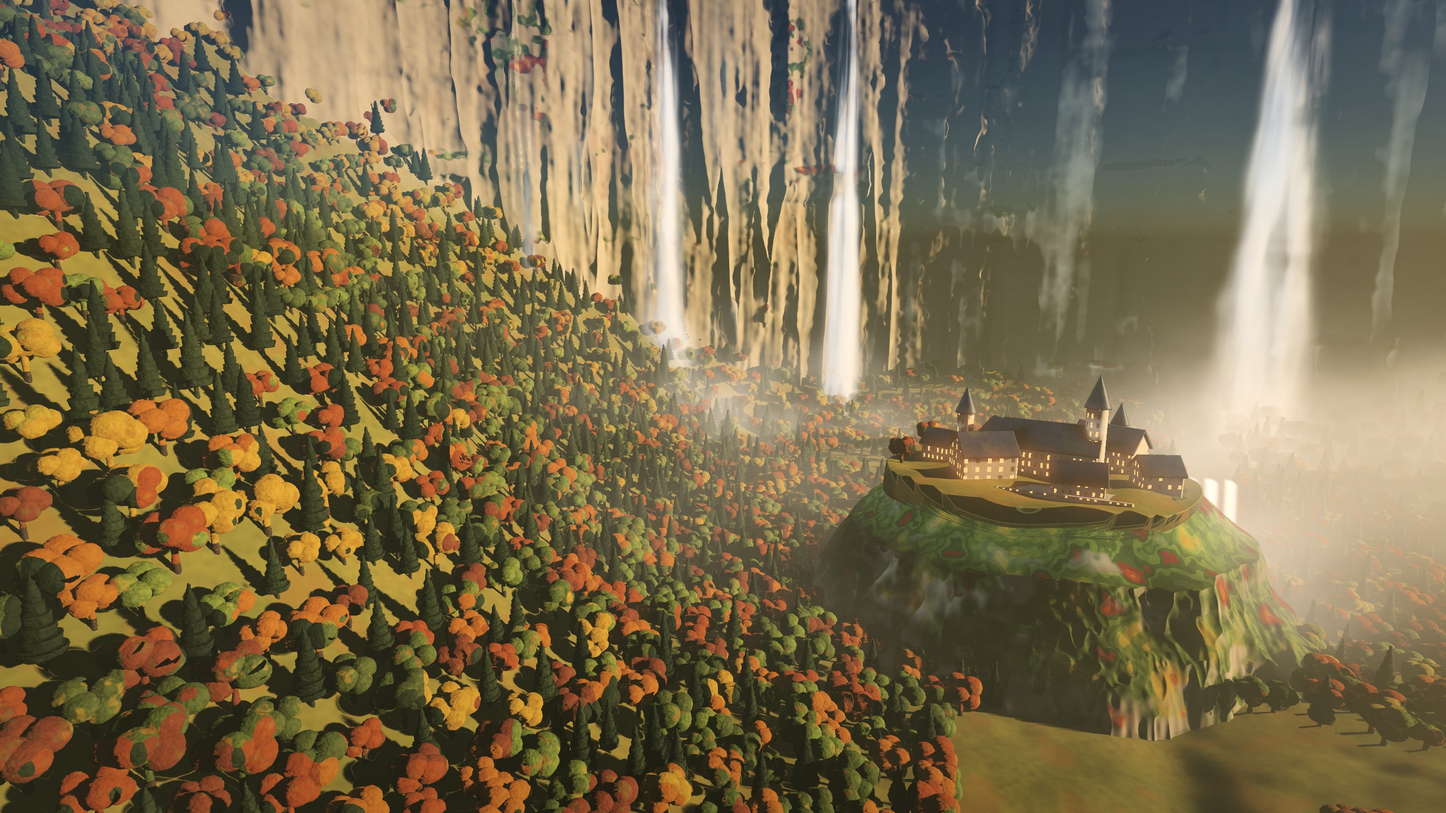
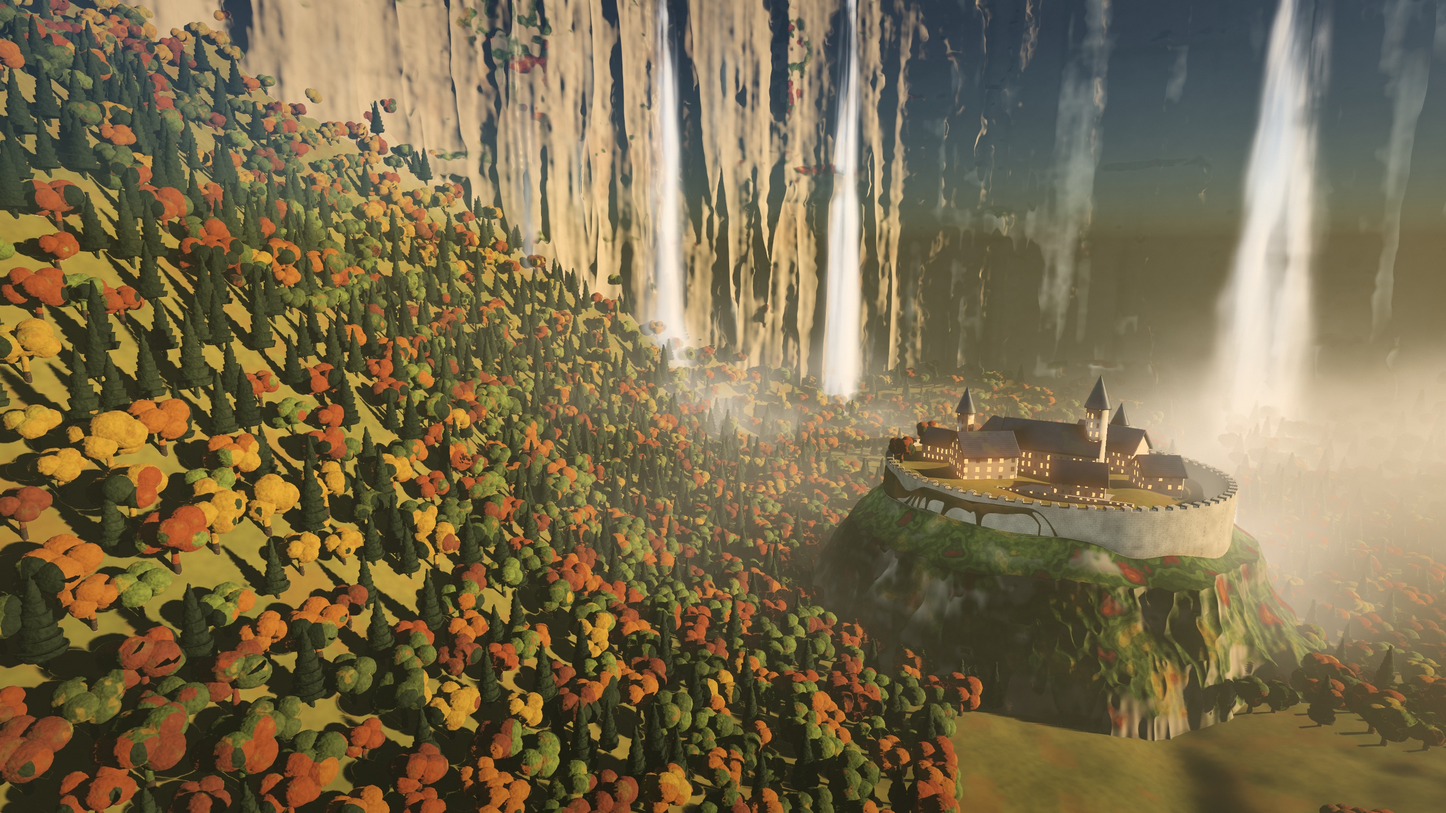
Légendes background: a crenellated stone rampart around the village's plateau (courses of blocks, mortar, moss at its foot, open in front of the terrace) instead of the grass border; no grass tongues over the lip (they made teeth); the crag's bushes finely mottled instead of smooth-edged patches

Changed region(s): [[0.5938, 0.5625, 0.875, 0.6875]]

diff --git a/app/tools/sprites/legend_scene.py b/app/tools/sprites/legend_scene.py
@@ -94,14 +94,13 @@ def cliff_mat():
                            sstep(0.6, 0.68, fbm(torch.stack([x * 0.012, y * 0.006, z * 0.012], 1) + 5, 4)) * sstep(0.45, 0.6, fbm(pw * 0.15, 2)))
         veg = autumn(fbm(pw * 0.09 + 7, 3) * 2.0, fbm(pw * 0.004, 2)) * (0.55 + 0.6 * fbm(pw * 0.5, 3))[:, None]
         up = torch.maximum(up, sstep(0.55, 0.75, n[:, 1]))          # whatever is flat enough is overgrown
-        # the crag's lip: no pale band under its top, the grass and the bushes spill over the edge
-        # and hang down in tongues, the rock just below is darker (shade, damp)
+        # the crag: darker just below the plateau (shade, damp)
         rs = torch.sqrt((x - SPUR[0]) ** 2 + ((z - SPUR[1]) * 1.2) ** 2) / SPUR[2]
         on_spur = sstep(1.3, 1.1, rs)
         below = SPUR[3] - y
-        hang = sstep(14 + 10 * fbm(torch.stack([x * 0.08, x * 0, z * 0.08], 1), 3), 2, below) * on_spur
-        up = torch.maximum(up, hang * sstep(0.35, 0.5, fbm(torch.stack([x * 0.15, y * 0.03, z * 0.15], 1) + 3, 3) + 0.25 * hang))
         a = a * (1 - 0.35 * (sstep(30, 8, below) * on_spur))[:, None]
+        # the bushes: fine mottling of light and shade, not patches with smooth outlines
+        veg = veg * (0.5 + 0.7 * fbm(pw * 0.9 + 1, 3))[:, None] * (0.8 + 0.35 * fbm(pw * 3.0, 2))[:, None]
         a = torch.lerp(a, veg, up[:, None])
         # the wet rock behind and around each waterfall
         wet = torch.zeros_like(x)
@@ -436,6 +435,37 @@ def wall_mat():
     return Mat("#e4dccc", rough=0.75, pattern=pat)
 
 
+def rampart(p):
+    """A stone rampart around the plateau's edge, with merlons: the village's edge is a wall, not a
+    band of grass. Grounded down into the crag."""
+    x, y, z = p[:, 0] - SPUR[0], p[:, 1], p[:, 2] - SPUR[1]
+    re = torch.sqrt(x * x + (z * 1.2) ** 2) / SPUR[2]
+    band = (re - 0.762).abs() * SPUR[2] - 1.5                       # 3 m thick
+    top = BASES[(0, 0)] + 3.2
+    ang = torch.atan2(z * 1.2, x)
+    merlon = ((torch.sin(ang * 70) > 0.1).float()) * 1.3
+    d = torch.maximum(band, torch.maximum(y - (top + merlon), BASES[(0, 0)] - 40 - y))
+    # the terrace's arcades replace the wall in front of it
+    tx, tz = _rot(x - 2, z - 34, 0.2)
+    gap = torch.maximum(tx.abs() - 27, tz.abs() - 9)
+    return torch.maximum(d, -gap) * 0.8
+
+
+def rampart_mat():
+    def pat(pl, pw, n):
+        x, y, z = pw[:, 0], pw[:, 1], pw[:, 2]
+        a = torch.lerp(srgb("#8a8274"), srgb("#c8bea8"), fbm(pw * 0.3, 3)[:, None])
+        # courses of blocks: mortar lines
+        cy = (y / 0.9) - torch.floor(y / 0.9)
+        u = (x + z) / 1.6
+        cx = (u + 0.5 * torch.floor(y / 0.9)) - torch.floor(u + 0.5 * torch.floor(y / 0.9))
+        mortar = torch.maximum(sstep(0.9, 0.97, cy), sstep(0.92, 0.98, cx) * (n[:, 1].abs() < 0.5).float())
+        a = a * (1 - 0.35 * mortar)[:, None]
+        a = torch.lerp(a, srgb("#4a5a2e"), (0.45 * sstep(0.6, 0.78, fbm(pw * 0.2 + 5, 3)) * sstep(BASES[(0, 0)] - 4, BASES[(0, 0)] - 20, y))[:, None])
+        return {"albedo": a}
+    return Mat("#a89e8a", rough=0.85, pattern=pat)
+
+
 def roof_mat():
     def pat(pl, pw, n):
         rows = 0.5 + 0.5 * torch.sin(pw[:, 1] * 9.0)
@@ -516,6 +546,7 @@ def scene():
     sc.add(spur_rock, cliff_mat())
     sc.add(river, water_mat())
     sc.add(walls, wall_mat())
+    sc.add(rampart, rampart_mat())
     sc.add(roofs, roof_mat())
     return sc
 
